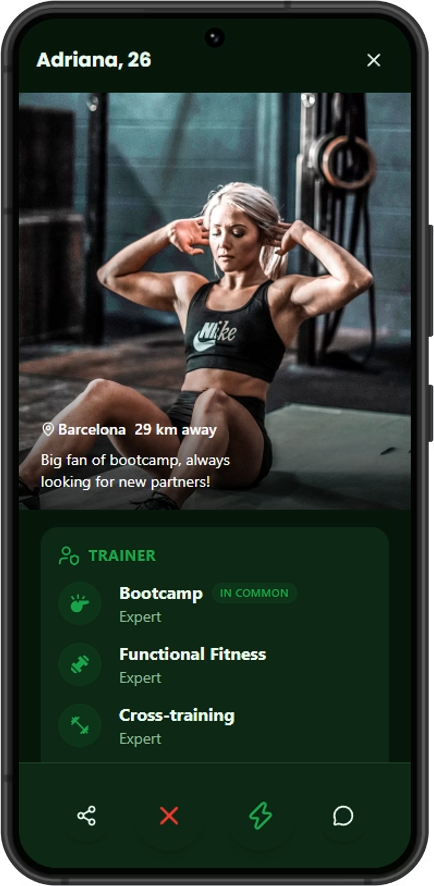
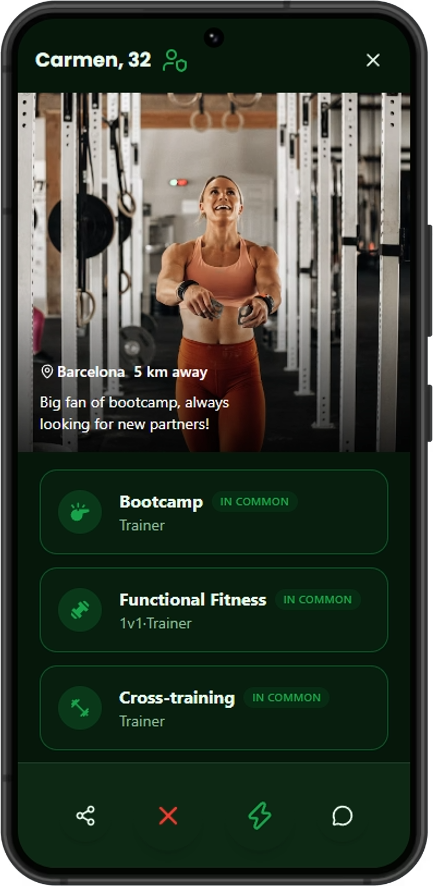
wip

diff --git a/src/routes/pitch/slides/CompetitionSlide.svelte b/src/routes/pitch/slides/CompetitionSlide.svelte
@@ -1,7 +1,17 @@
 <script lang="ts">
   import { CircleCheck, CircleX, CircleAlert } from "@lucide/svelte";
+  import TinderIcon from "~icons/simple-icons/tinder";
+  import StravaIcon from "~icons/simple-icons/strava";
+  import MeetupIcon from "~icons/simple-icons/meetup";
+  import LogoIcon from "$lib/components/LogoIcon.svelte";
 
-  const COMPETITORS = ["Tinder", "Bumble", "Meetup", "FIT-M8"] as const;
+  const COMPETITORS = ["Tinder", "Strava", "Meetup", "FIT-M8"] as const;
+  const COMPETITOR_ICONS = [
+    TinderIcon,
+    StravaIcon,
+    MeetupIcon,
+    LogoIcon,
+  ] as const;
 
   type Support = "yes" | "no" | "partial";
   type Cell = { label: string; support?: Support };
@@ -11,7 +21,7 @@
       dimension: "Primary intent",
       cells: [
         { label: "Romantic / Dating" },
-        { label: "Dating & Friendship" },
+        { label: "Fitness Tracking & Social Feed" },
         { label: "Large Group Events" },
         { label: "Peer-to-Peer Sports Matching" },
       ],
@@ -20,7 +30,7 @@
       dimension: "Sport & skill filtering",
       cells: [
         { label: "None", support: "no" },
-        { label: "Generic Interests", support: "no" },
+        { label: "Activity Type Tags Only", support: "partial" },
         { label: "Event Categories Only", support: "partial" },
         { label: "100+ Sports & Skill Levels", support: "yes" },
       ],
@@ -29,7 +39,7 @@
       dimension: "Match dynamics",
       cells: [
         { label: "1-on-1" },
-        { label: "1-on-1" },
+        { label: "Follow / Kudos, No Matching" },
         { label: "Group / Event Host" },
         { label: "1-on-1 & 4-Player Activity Loops" },
       ],
@@ -47,7 +57,7 @@
       dimension: "Frictionless swipe UI",
       cells: [
         { label: "Yes", support: "yes" },
-        { label: "Yes", support: "yes" },
+        { label: "No", support: "no" },
         { label: "No", support: "no" },
         { label: "Yes", support: "yes" },
       ],
@@ -64,8 +74,8 @@
   <h2
     class="text-2xl font-black text-text md:text-4xl text-balance text-center"
   >
-    FIT-M8 captures the unserved space between romantic dating apps and rigid
-    group organizers.
+    FIT-M8 captures the unserved space between romantic dating apps, passive
+    fitness trackers, and rigid group organizers.
   </h2>
 
   <!-- Mobile: stacked cards, one per dimension -->
@@ -80,7 +90,13 @@
         <div class="flex flex-col gap-1.5 text-sm">
           {#each row.cells as cell, i}
             <div class="flex items-center justify-between gap-3">
-              <span class="text-muted">{COMPETITORS[i]}</span>
+              <span class="flex items-center gap-1.5 text-muted">
+                {#if COMPETITOR_ICONS[i]}
+                  {@const Icon = COMPETITOR_ICONS[i]}
+                  <Icon class="size-3.5 shrink-0" />
+                {/if}
+                {COMPETITORS[i]}
+              </span>
               <span
                 class="flex items-center gap-1 font-semibold {i === 3
                   ? 'text-primary'
@@ -115,7 +131,13 @@
               ? 'text-primary'
               : 'text-text'}"
           >
-            {name}
+            <span class="inline-flex items-center gap-1.5">
+              {#if COMPETITOR_ICONS[i]}
+                {@const Icon = COMPETITOR_ICONS[i]}
+                <Icon class="size-4 shrink-0" />
+              {/if}
+              {name}
+            </span>
           </th>
         {/each}
       </tr>
@@ -147,16 +169,20 @@
     </tbody>
   </table>
 
-  <div class="flex flex-col gap-2 text-center text-sm text-muted md:text-base">
+  <!-- <div class="flex flex-col gap-2 text-center text-sm text-muted md:text-base">
     <p>
-      <span class="font-semibold text-text">vs. Tinder & Bumble:</span>
-      removes romantic tension; filters specifically by sport preferences, skill
-      tier, and activity availability.
+      <span class="font-semibold text-text">vs. Tinder:</span> removes romantic tension;
+      filters specifically by sport preferences, skill tier, and activity availability.
+    </p>
+    <p>
+      <span class="font-semibold text-text">vs. Strava:</span> complements activity
+      trackers by turning logged activity into real-time, skill-matched sessions
+      with other people, not just a solo feed.
     </p>
     <p>
       <span class="font-semibold text-text">vs. Meetup:</span> eliminates the friction
       of group event planning and static scheduling with direct 1-on-1 or 4-person
       instant matchmaking.
     </p>
-  </div>
+  </div> -->
 </div>

diff --git a/src/routes/pitch/slides/TeamSlide.svelte b/src/routes/pitch/slides/TeamSlide.svelte
@@ -20,8 +20,8 @@
   const FOUNDER = {
     photo: marcelloPhoto,
     name: "Marcello Annicchairico",
-    role: "Founder / CEO & Engineer",
-    desc: "Solo-founded and built the entire product end-to-end: product design, full-stack development, and infrastructure - shipped a mobile app already live with real users.",
+    role: "Founder, CEO & Software/Product Engineer",
+    desc: "A rare CEO who is also the engineer: designed, built, and shipped the entire product solo - product, full-stack development, and infrastructure - with a mobile app already live with real users. No dev team, no agency, no delays - pure execution speed.",
   };
 </script>
 
@@ -37,18 +37,24 @@
     A solo technical founder who has already built and shipped the product.
   </h2>
   <div
-    class="flex flex-col items-center gap-3 rounded-2xl bg-surface p-6 text-center shadow-sm"
+    class="flex w-full flex-col items-center gap-5 rounded-3xl border border-primary/20 bg-gradient-to-br from-primary/10 via-surface to-surface p-6 text-center shadow-sm md:flex-row md:gap-8 md:p-8 md:text-left"
   >
     <img
       src={FOUNDER.photo}
       alt={FOUNDER.name}
-      class="size-24 rounded-full object-cover md:size-32"
+      class="size-28 shrink-0 rounded-full object-cover ring-4 ring-primary/30 md:size-36"
     />
-    <p class="font-bold text-text md:text-lg">{FOUNDER.name}</p>
-    <p class="text-xs font-semibold uppercase tracking-widest text-primary">
-      {FOUNDER.role}
-    </p>
-    <p class="text-sm text-muted md:text-base text-balance">{FOUNDER.desc}</p>
+    <div class="flex flex-col items-center gap-2 md:items-start">
+      <p class="font-bold text-text md:text-xl">{FOUNDER.name}</p>
+      <p
+        class="text-xs font-semibold uppercase tracking-widest text-primary md:text-sm"
+      >
+        {FOUNDER.role}
+      </p>
+      <p class="text-sm text-muted md:text-base text-balance">
+        {FOUNDER.desc}
+      </p>
+    </div>
   </div>
   <div class="flex w-full flex-col gap-2">
     <p class="text-xs font-semibold uppercase tracking-widest text-primary">

diff --git a/src/routes/pitch/slides/ProblemSlide.svelte b/src/routes/pitch/slides/ProblemSlide.svelte
@@ -3,12 +3,12 @@
 
   const PROBLEM_POINTS = [
     {
-      title: "Tinder / dating apps are misaligned",
+      title: "Tinder dating apps are misaligned",
       desc: "Romance-first focus creates awkward dynamics when users strictly want a tennis partner or workout buddy.",
     },
     {
-      title: "Bumble (BFF / Date) lacks sports intent",
-      desc: "Generic social profiles don't filter by sport, skill level, position, or schedule availability.",
+      title: "Strava lacks real matchmaking",
+      desc: "Great for logging solo activity, but it doesn't connect you with nearby people to actually play or train with.",
     },
     {
       title: "Meetup is group-heavy & rigid",

diff --git a/src/routes/pitch/slides/CoverSlide.svelte b/src/routes/pitch/slides/CoverSlide.svelte
@@ -4,12 +4,13 @@
 </script>
 
 <div
-  class="mx-auto flex w-full max-w-md flex-1 flex-col items-center justify-center gap-20 text-center"
+  class="mx-auto flex w-full max-w-lg flex-1 flex-col items-center justify-center gap-20 text-center"
 >
   <div class="relative z-10 flex flex-col items-center gap-4">
     <Logo class="h-auto w-56 text-primary drop-shadow-md md:w-72" />
     <p class="text-lg font-medium text-muted text-balance md:text-2xl">
-      Find Your Sports Match
+      <!-- Find Your Sports Match -->
+      The swipe-and-map matchmaking app for peer-to-peer sports, friends, and trainers
     </p>
   </div>
   <div class="relative flex w-full justify-center print:hidden">
